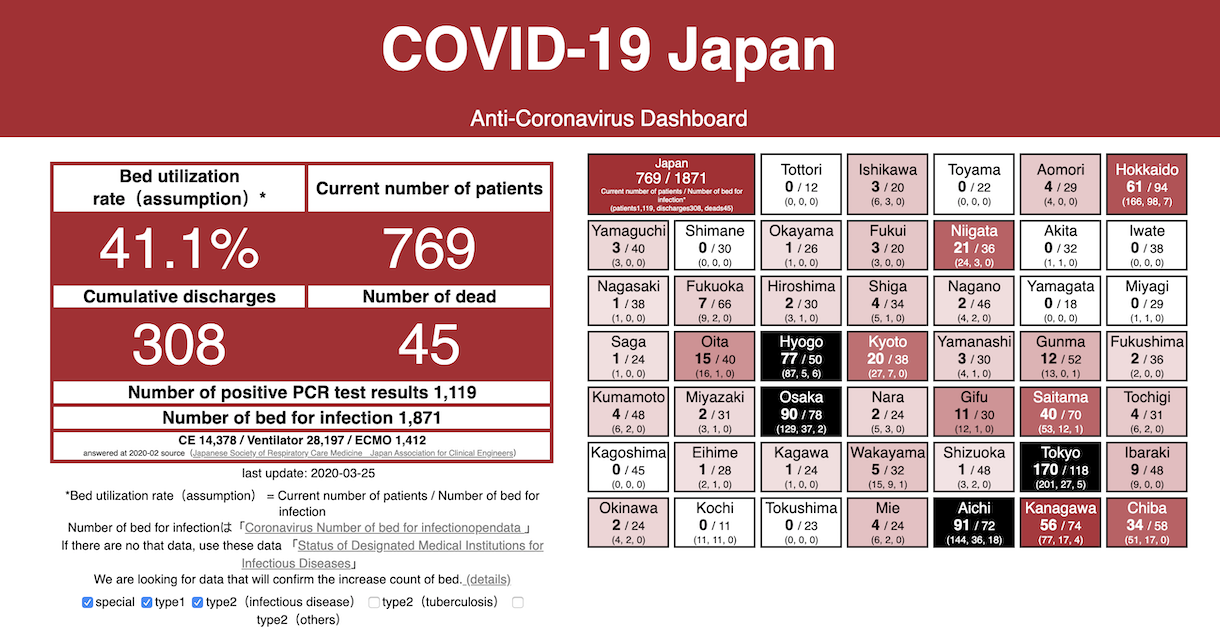
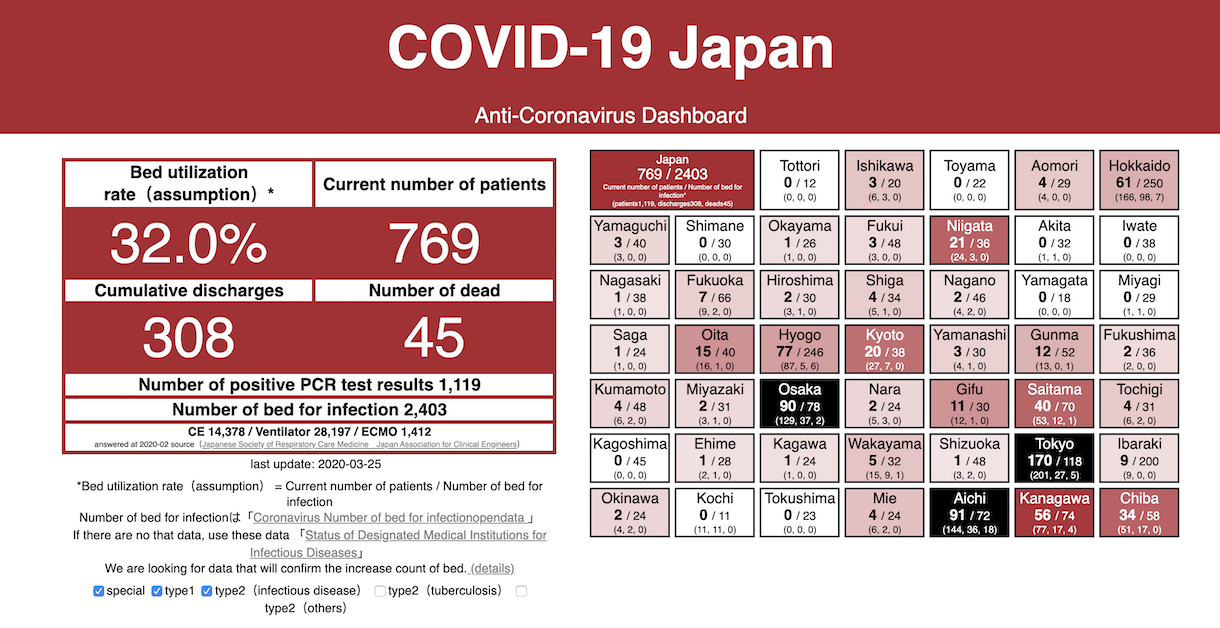
現在感染症病床数が反映されていなかったバグを修正

Changed region(s): [[0.0, 0.1513, 1.0, 0.9984], [0.3115, 0.0303, 0.6852, 0.121]]

diff --git a/index.html b/index.html
@@ -6,8 +6,8 @@
 <meta property="og:description" content="日本の感染症病床使用率と現在患者数を全体と都道府県別にすばやく表示、厚生労働省と各自治体から提供されるオープンデータ使用"/>
 <link rel="apple-touch-icon" href="japan7x7_icon.png"/>
 <meta name="twitter:card" content="summary_large_image"/>
-<meta property="og:image"  content="https://www.stopcovid19.jp/japan7x7_ogp_20200326.png"/>
-<meta name="twitter:image" content="https://www.stopcovid19.jp/japan7x7_ogp_20200326.png"/>
+<meta property="og:image"  content="https://www.stopcovid19.jp/japan7x7_ogp_20200326-2.png"/>
+<meta name="twitter:image" content="https://www.stopcovid19.jp/japan7x7_ogp_20200326-2.png"/>
 <meta name="viewport" content="width=device-width, initial-scale=1.0"/>
 <meta name="format-detection" content="telephone=no"/>
 <style>
@@ -418,9 +418,10 @@ window.onload = async function() {
 		for (let j = 0; j < json_bed.area.length; j++) {
 			const a = json_bed.area[j]
 			if (a.name_ja == cbed['自治体名']) {
-				const n = parseInt(cbed['新型コロナウイルス対策感染症病床数'])
+				const n = parseInt(cbed['新型コロナウイルス対策感染病床数'])
 				a.sumc = n
 				a.sumc_src = cbed
+				console.log(a)
 			}
 		}
 	}
